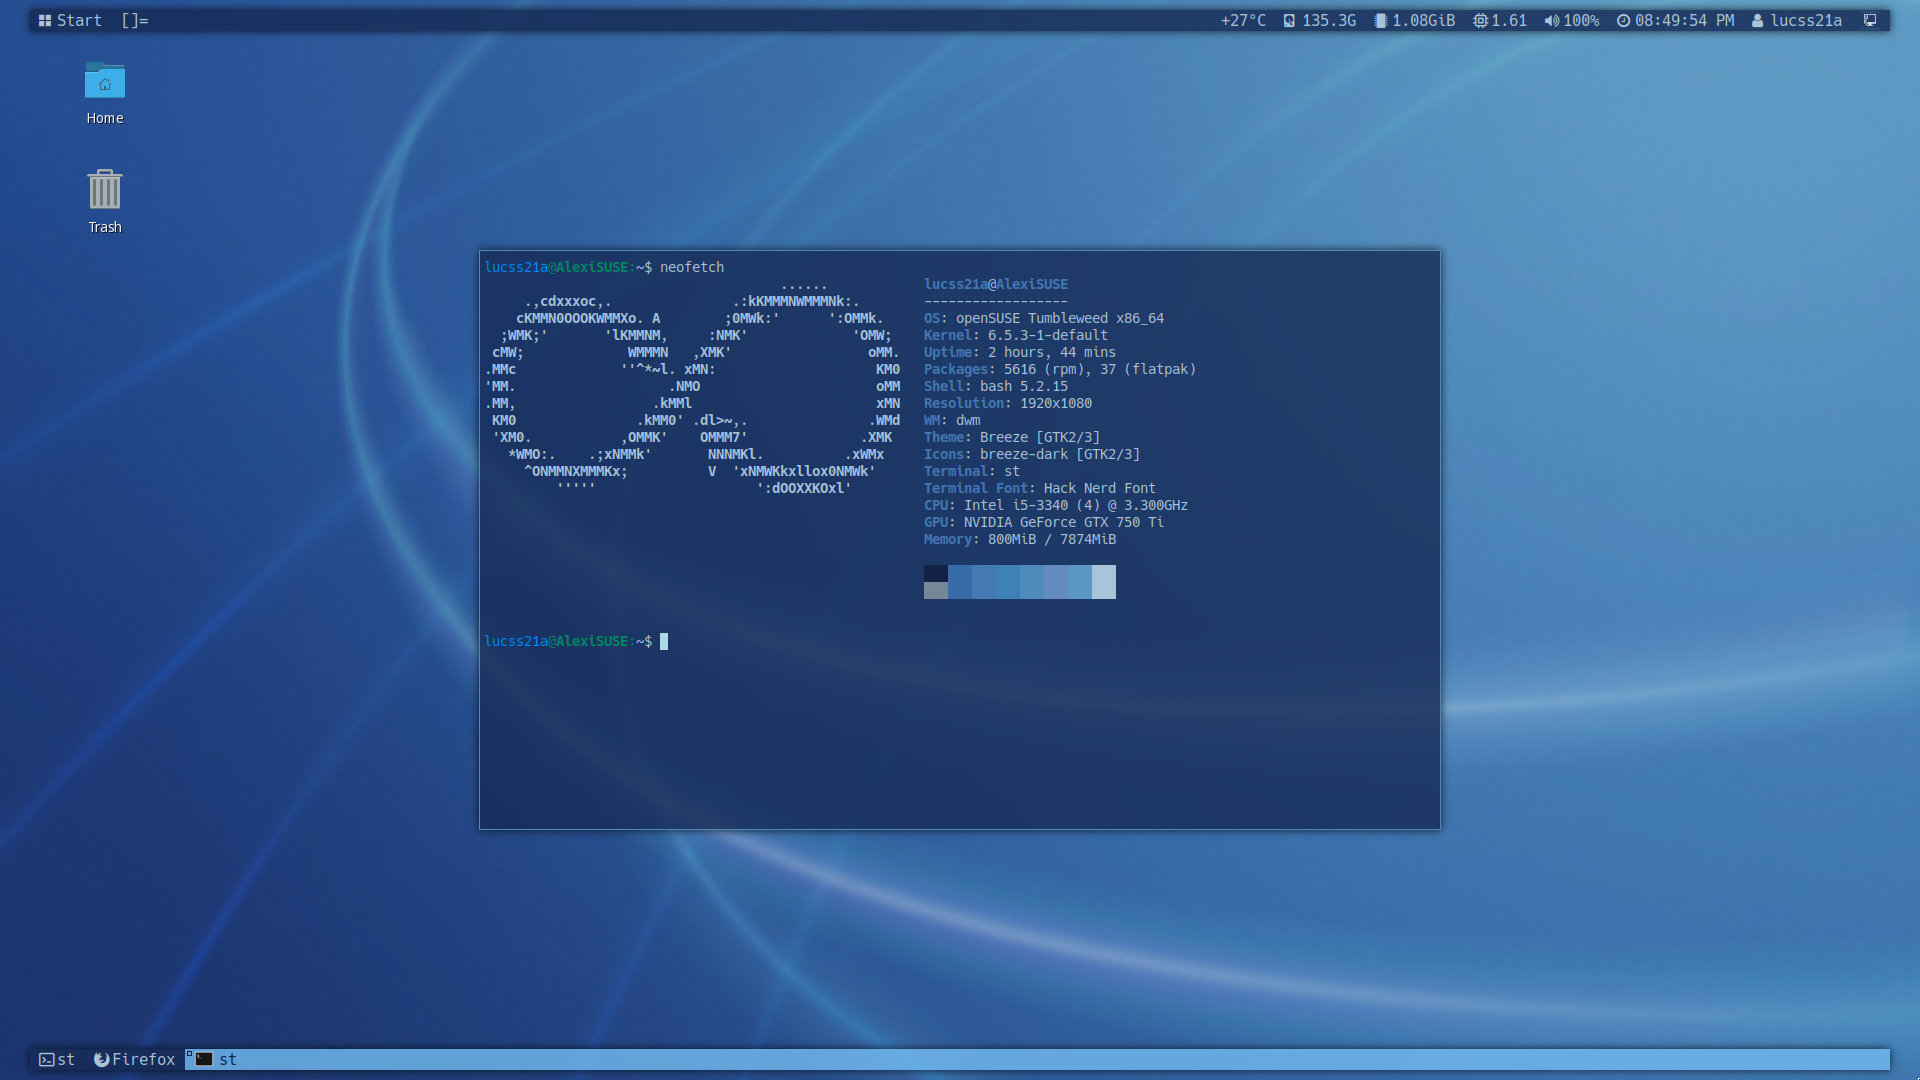
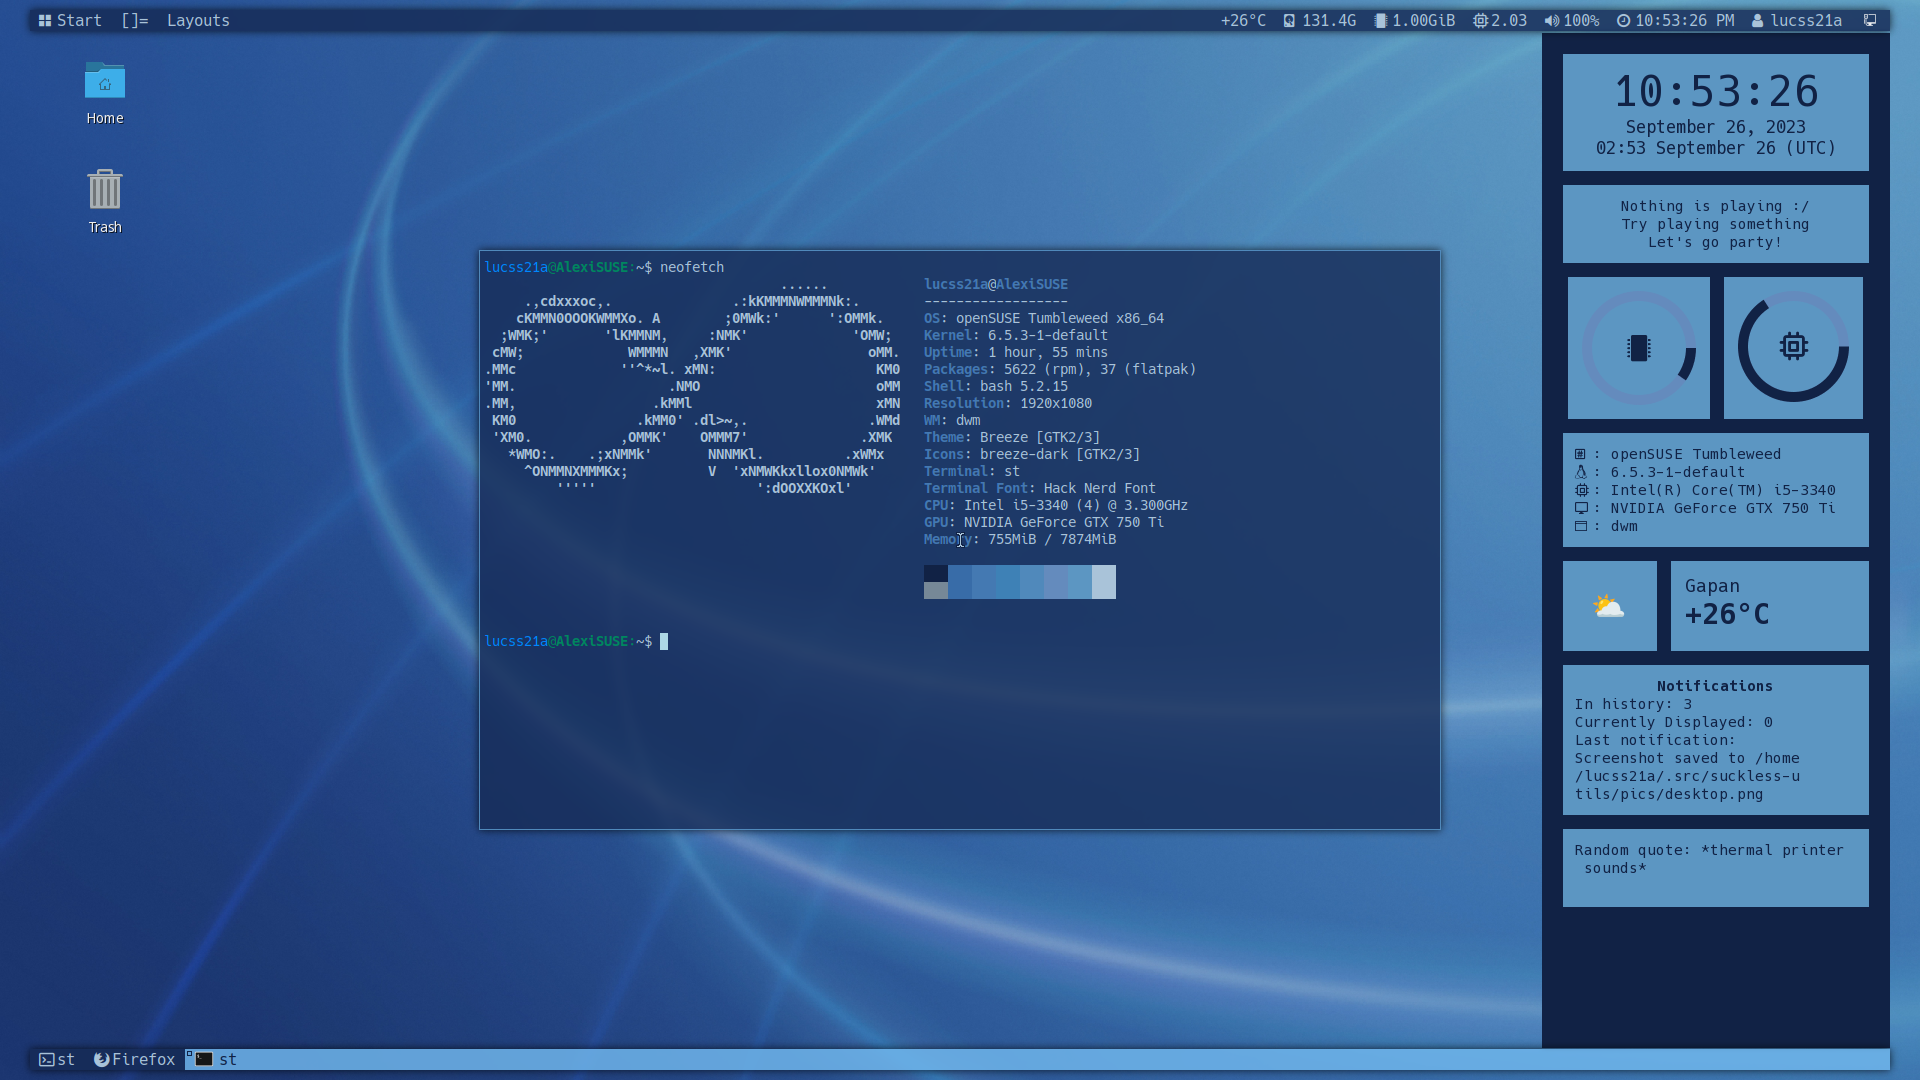
Update screenshots, readme and eww config

diff --git a/config/eww/colors.scss b/config/eww/colors.scss
@@ -1,0 +1,26 @@
+// SCSS Variables
+// Generated by 'wal'
+$wallpaper: "/home/lucss21a/Pictures/Wallpapers/Jaguar Aqua Blue.jpg";
+
+// Special
+$background: #112245;
+$foreground: #a9c3d9;
+$cursor: #a9c3d9;
+
+// Colors
+$color0: #112245;
+$color1: #386CA8;
+$color2: #4479B2;
+$color3: #3E81B6;
+$color4: #5089BB;
+$color5: #648BBD;
+$color6: #5C96C2;
+$color7: #a9c3d9;
+$color8: #768897;
+$color9: #386CA8;
+$color10: #4479B2;
+$color11: #3E81B6;
+$color12: #5089BB;
+$color13: #648BBD;
+$color14: #5C96C2;
+$color15: #a9c3d9;

diff --git a/README.md b/README.md
@@ -18,6 +18,10 @@ This was designed to save me some sanity in maintaining it as well as easily int
 
 ## Notes
 
+### eww notes
+
+The weather widget is pretty barebones as of now. Report bugs if found.
+
 ### Configuration notes
 
 The bare essentials of my dotfiles are located in the `config` directory. This includes `spmenu`, `picom` and `ncmpcppp`. 
@@ -84,6 +88,7 @@ Linux/Unix users:
 - slop (for riodraw)
 - libmpdclient(-devel or -dev) for mpdclient
 - yajl for ipc
+- eww (optional)
 
 Termux users:
 - xorg 
@@ -127,7 +132,9 @@ Refer to patches.def.h and config.mk for additional patch-related requirements.
     - Additionally, a script called `startdwm` located in `desktop` could be installed in `/usr/local/bin` which could be used to launch dwm on display managers, such as GDM or SDDM.
     - `startdwm` could be also used as the xinitrc script by putting it under $HOME and renaming it to `.xinitrc`.
 8. Install the `dwmblocks` scripts (in `scripts/dwmblocks`) to your `$PATH`.
-9.  Start it and done! 
+9. Install eww, and put the config inside `config/eww` to `$HOME/.config`. Put the scripts inside `scripts/eww` inside `$PATH`.
+    - (Recommended) Make a hard link of `.cache/wal/colors.scss` to `.config/eww/colors.scss`.
+10.  Start it and done! 
 
 
 ## Future plans
@@ -161,7 +168,8 @@ All programs are licensed under the MIT License, except for some submodules, whi
 ## Screenshots
 ![Screenshot of neofetch](/pics/neofetch.png)
 ![Screenshot of the desktop](/pics/desktop.png)
-![Screenshot of st (in a scratchpad), Discord and Firefox](/pics/random.png)
+![Screenshot of random screenshots](/pics/random.png)
+![Screenshot of SM64 port](/pics/gaming.png)
 
 ## Special thanks 
 * [Speedie](https://speedie.site) for helping me out with this and providing me with patches 
